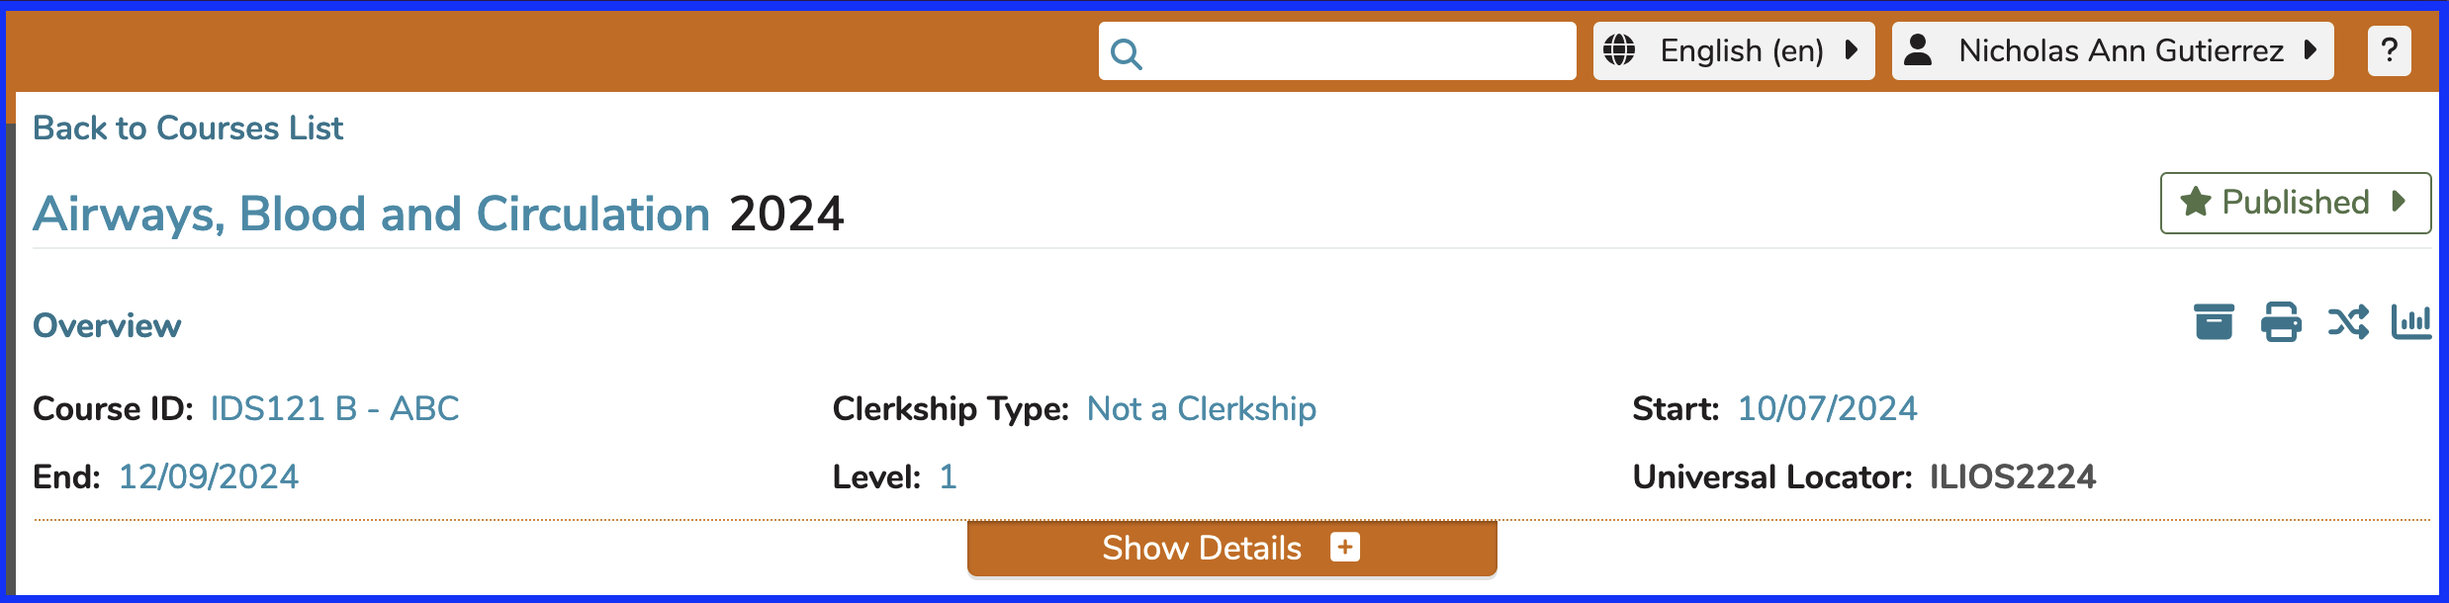
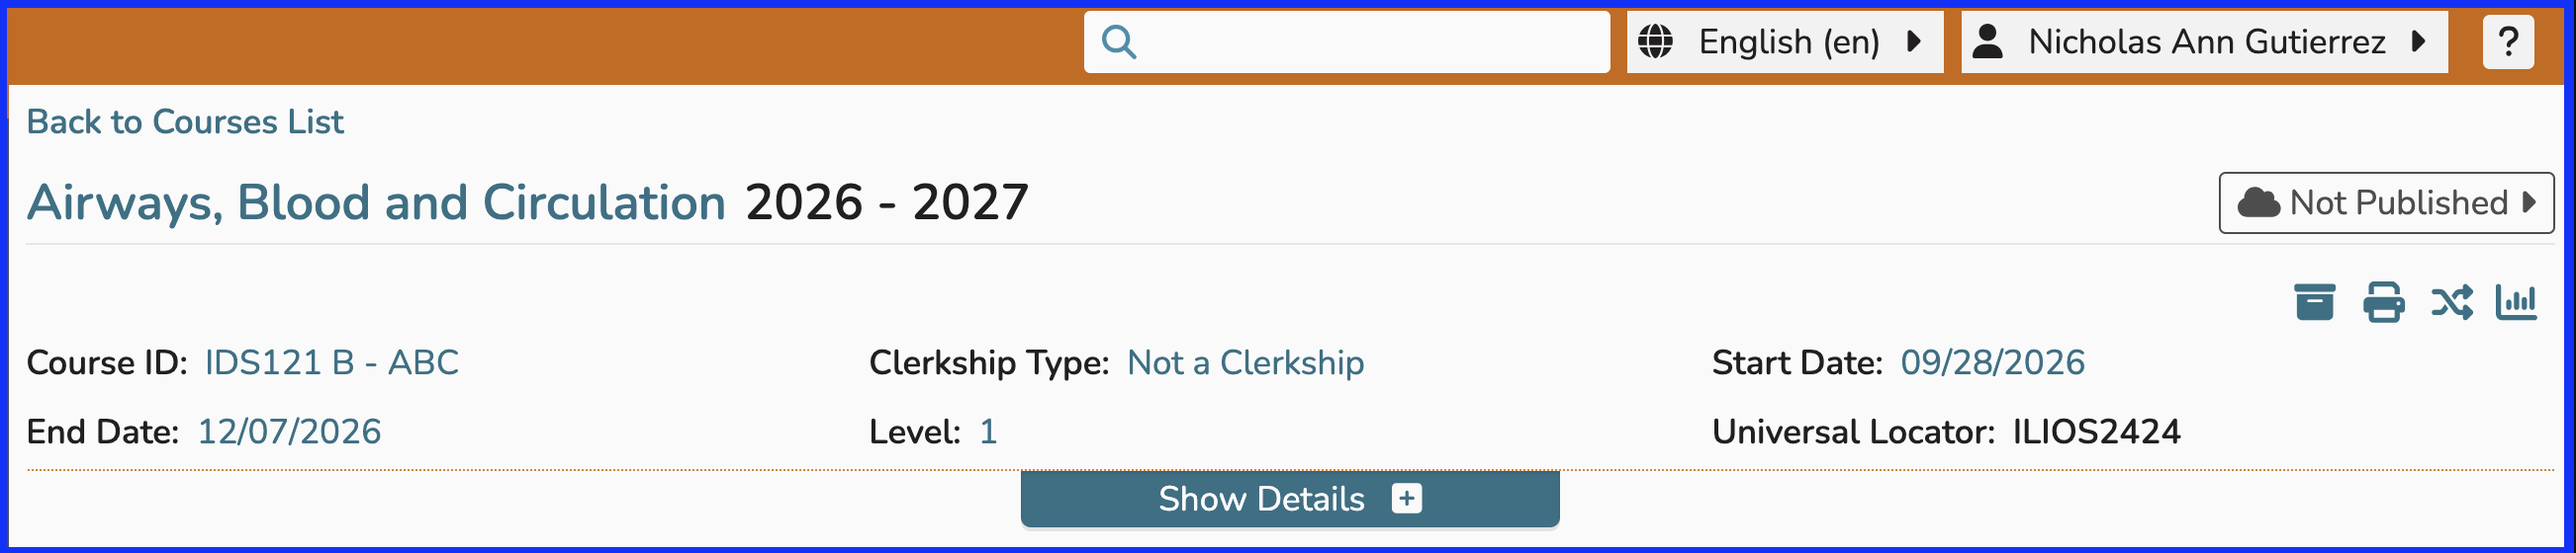
image replaced - text updated to match

diff --git a/courses-and-sessions/courses/vocabulary_terms.md b/courses-and-sessions/courses/vocabulary_terms.md
@@ -6,7 +6,7 @@ For the sake of demonstration, we will start with a course that has not had any 
 
 ## Select Course 
 
-The course has been selected (Airways, Blood and Circulation - 2024). The [Edit Course](https://iliosproject.gitbook.io/ilios-user-guide/courses-and-sessions/courses/course_actions/edit-course) section has good information about searching for and selecting a course to view/modify.
+The course has been selected (Airways, Blood and Circulation - 2026-2027). The [Edit Course](https://iliosproject.gitbook.io/ilios-user-guide/courses-and-sessions/courses/course_actions/edit-course) section has good information about searching for and selecting a course to view/modify.
 
 ![course selected](../../images/course_vocabulary/course_selected.png)
 
